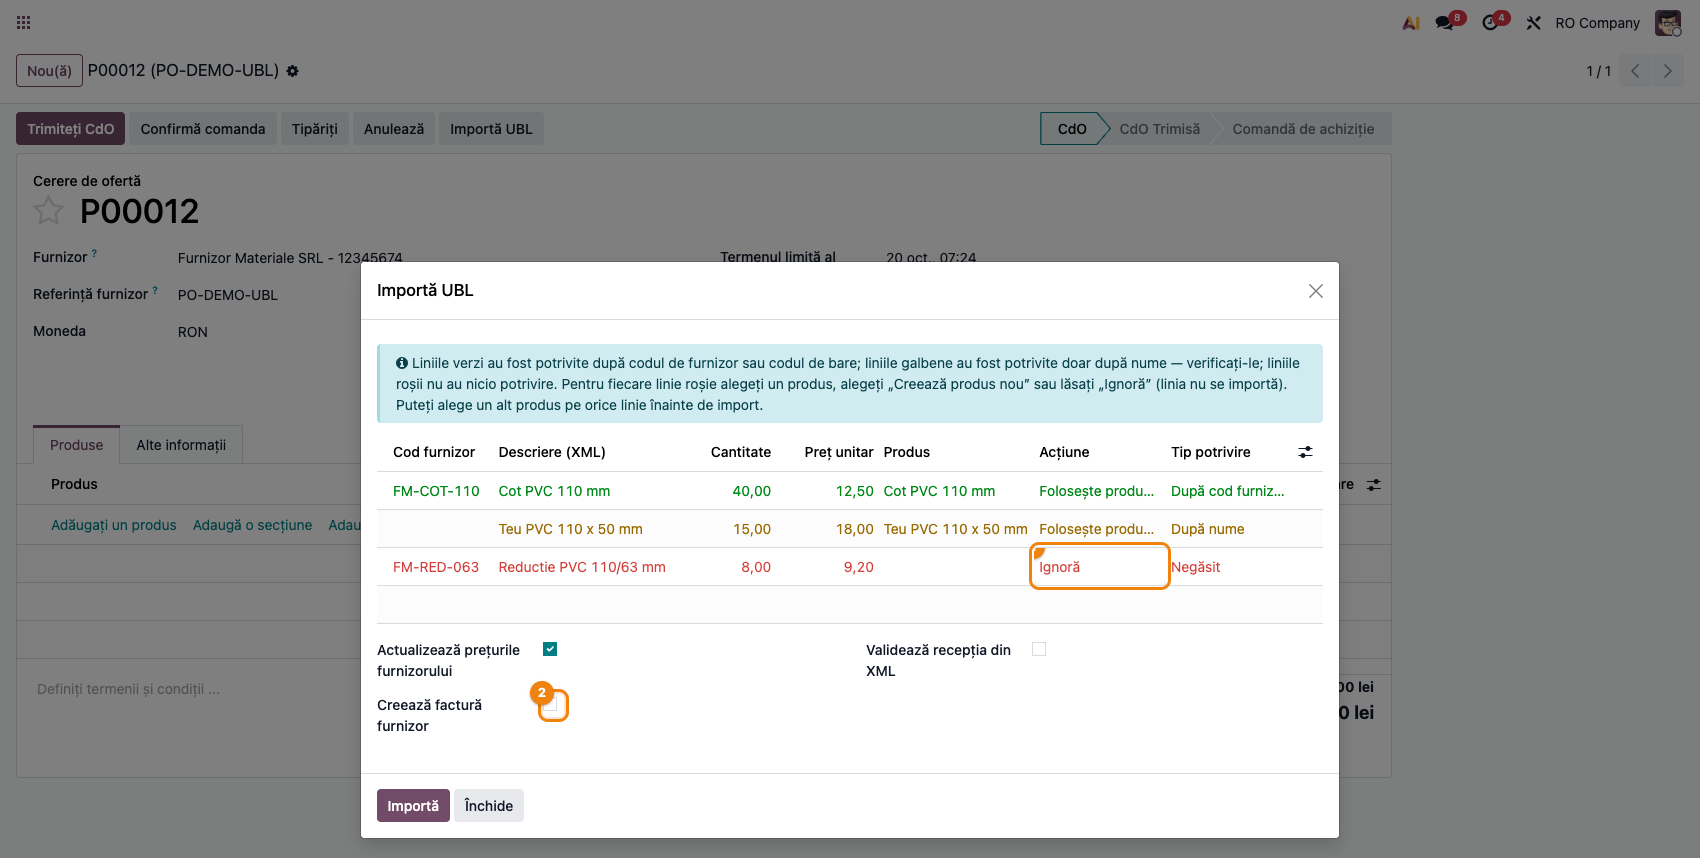
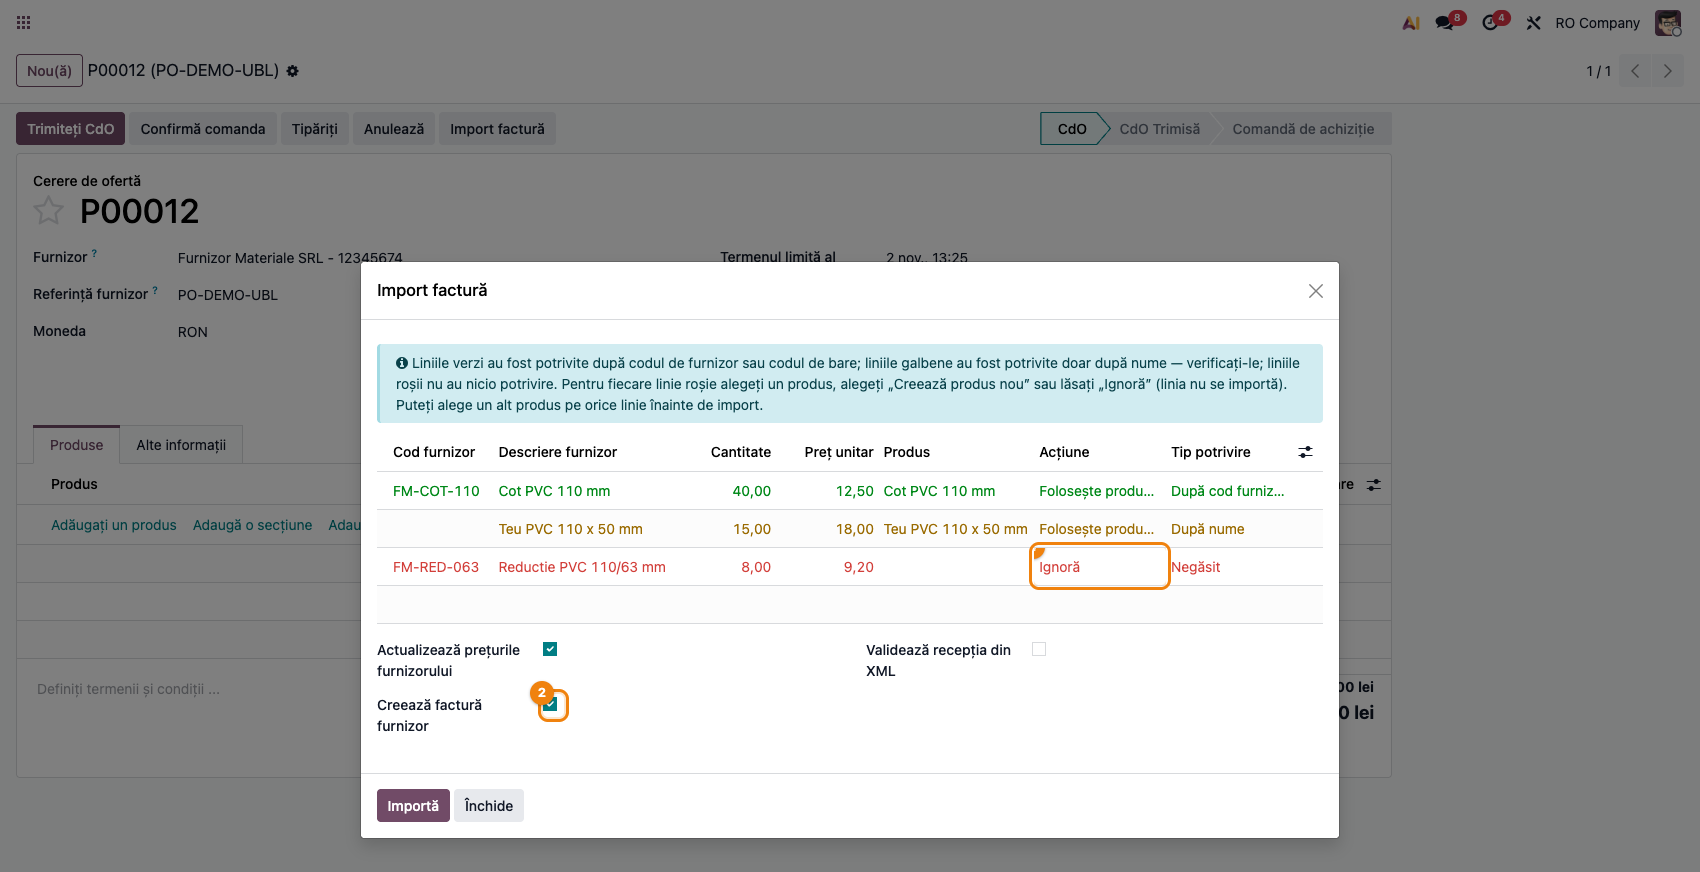
[19.0][DOC] deltatech_purchase_ubl: consultant sheet with screenshots on every step
Screenshots for steps 1-7 (new 01, 02, 05, 06, 09; 03/04 renamed from
06/09 to follow the flow), embedded in the sheet. Seed uses 2026 invoice
dates (new issue_date/due_date arguments of _xml_invoice, defaults
unchanged), storable products and a confirmed order for the main flow.
Sheet text now states exactly what a price update writes on an existing
vendor line and uses the Romanian wording of the translated messages.

Assisted-by: Claude Sonnet 5.5

diff --git a/deltatech_purchase_ubl/tests/test_screenshots.py b/deltatech_purchase_ubl/tests/test_screenshots.py
@@ -10,6 +10,7 @@
 #     fișa să poată arăta legenda completă într-o singură captură;
 #   - activitatea „Import SPV necesită verificare" + nota colorată din chatter (19.0.1.4.0),
 #     comportament care nu există în nicio bază locală, deci nu putea fi pozat manual;
+#   - pașii 1, 2, 5 și 6 (butonul, opțiunile, comanda importată, factura);
 #   - previzualizarea ca dialog, cu coloana „Acțiune" și opțiunile importului, și pasul de
 #     rezultat cu butonul „Deschide comanda de achiziție" (19.0.1.4.14).
 #
@@ -93,7 +94,7 @@ class TestPurchaseUblScreenshots(ScreenshotCase or object):
         )
 
         # VERDE — produs cu cod de furnizor: potrivire sigură.
-        cls.prod_green = env["product.product"].create({"name": "Cot PVC 110 mm", "type": "consu"})
+        cls.prod_green = env["product.product"].create({"name": "Cot PVC 110 mm", "type": "consu", "is_storable": True})
         env["product.supplierinfo"].create(
             {
                 "partner_id": cls.vendor.id,
@@ -108,10 +109,12 @@ class TestPurchaseUblScreenshots(ScreenshotCase or object):
         # fără cod de furnizor și fără cod de bare: matcherul cade pe potrivirea după nume.
         # Numele trebuie să fie UNIC în bază — `_match_product_detailed` acceptă potrivirea
         # după nume doar la un singur rezultat (`len(products) == 1`).
-        cls.prod_yellow = env["product.product"].create({"name": "Teu PVC 110 x 50 mm", "type": "consu"})
+        cls.prod_yellow = env["product.product"].create({"name": "Teu PVC 110 x 50 mm", "type": "consu", "is_storable": True})
 
         cls.xml_preview = _xml_invoice(
             invoice_id="FMS-2026-00418",
+            issue_date="2026-10-15",
+            due_date="2026-11-14",
             order_ref="PO-DEMO-UBL",
             supplier_vat="12345674",
             supplier_name="Furnizor Materiale SRL",
@@ -168,6 +171,8 @@ class TestPurchaseUblScreenshots(ScreenshotCase or object):
                     "data_file": b64encode(cls.xml_preview),
                     "filename": "FMS-2026-00418.xml",
                     "order_id": cls.po_preview.id,
+                    "update_prices": True,
+                    "create_bill": True,
                 }
             )
         )
@@ -195,6 +200,46 @@ class TestPurchaseUblScreenshots(ScreenshotCase or object):
         cls.wizard_done.action_preview()
         cls.wizard_done.action_confirm_import()
 
+        # --- Pașii 1–2: butonul de pe comandă și fereastra înainte de previzualizare -------
+        cls.po_start = env["purchase.order"].create(
+            {"partner_id": cls.vendor.id, "company_id": company.id, "partner_ref": "PO-DEMO-UBL-0"}
+        )
+        cls.wizard_start = (
+            env["purchase.ubl.import.wizard"]
+            .with_context(active_model="purchase.order", active_id=cls.po_start.id)
+            .create(
+                {
+                    "data_file": b64encode(cls.xml_preview),
+                    "filename": "FMS-2026-00418.xml",
+                    "order_id": cls.po_start.id,
+                    # opțiunile bifate implicit din acțiunea de pe comandă
+                    "update_prices": True,
+                    "create_bill": True,
+                }
+            )
+        )
+
+        # --- Pașii 5–6: comanda confirmată, importată cu factură ---------------------------
+        cls.po_bill = env["purchase.order"].create(
+            {"partner_id": cls.vendor.id, "company_id": company.id, "partner_ref": "PO-DEMO-UBL-3"}
+        )
+        # Facturarea pe cantitatea comandată, ca factura să se poată crea fără recepție.
+        (cls.prod_green | cls.prod_yellow).product_tmpl_id.write({"purchase_method": "purchase"})
+        cls.po_bill.button_confirm()
+        cls.wizard_bill = (
+            env["purchase.ubl.import.wizard"]
+            .with_context(active_model="purchase.order", active_id=cls.po_bill.id)
+            .create(
+                {
+                    "data_file": b64encode(cls.xml_preview),
+                    "filename": "FMS-2026-00418.xml",
+                    "order_id": cls.po_bill.id,
+                }
+            )
+        )
+        cls.wizard_bill.action_preview()
+        cls.wizard_bill.action_confirm_import()
+
         # --- Scenariul activității (19.0.1.4.0) -------------------------------------
         # Comandă creată „din mesajul SPV": XML cu o linie pe care matcherul nu o poate
         # plasa, importată headless cu `purchase_ubl_no_new_products` — exact fluxul
@@ -212,6 +257,8 @@ class TestPurchaseUblScreenshots(ScreenshotCase or object):
         )
         xml_activity = _xml_invoice(
             invoice_id="FMS-2026-00419",
+            issue_date="2026-10-15",
+            due_date="2026-11-14",
             order_ref="PO-DEMO-SPV",
             supplier_vat="12345674",
             supplier_name="Furnizor Materiale SRL",
@@ -261,12 +308,52 @@ class TestPurchaseUblScreenshots(ScreenshotCase or object):
         )
         self.assertEqual(self.wizard_done.state, "done")
 
+        self.assertTrue(self.po_bill.invoice_ids, "Seed-ul trebuie să producă factura furnizorului")
         self.capture_screenshots(
             [
+                # Pasul 1: butonul „Import factură" din bara comenzii (①).
+                {
+                    "url": f"id={self.po_start.id}&model=purchase.order&view_type=form",
+                    "name": "01_comanda_buton_import.png",
+                    "wait": ".o_form_view",
+                    "highlight": ["button:has-text('Import factură')"],
+                    "settle": 2000,
+                },
+                # Pasul 2: fereastra cu fișierul încărcat și opțiunile importului (①②③).
+                {
+                    "url": f"id={self.po_start.id}&model=purchase.order&view_type=form",
+                    "name": "02_optiuni_import.png",
+                    "wait": ".o_form_view",
+                    "eval": _open_wizard(self.wizard_start.id),
+                    "eval_wait": 2500,
+                    "highlight": [
+                        ".modal div[name='update_prices']",
+                        ".modal div[name='create_bill']",
+                        ".modal button[name='action_preview']",
+                    ],
+                    "settle": 2000,
+                },
+                # Pasul 5: comanda după import, cu liniile preluate din factură.
+                {
+                    "url": f"id={self.po_bill.id}&model=purchase.order&view_type=form",
+                    "name": "05_comanda_dupa_import.png",
+                    "wait": ".o_form_view",
+                    "settle": 2500,
+                    "full": True,
+                },
+                # Pasul 6: factura furnizorului creată din XML, în ciornă.
+                {
+                    "url": f"id={self.po_bill.invoice_ids[:1].id}&model=account.move&view_type=form",
+                    "name": "06_factura_furnizor.png",
+                    "wait": ".o_form_view",
+                    "highlight": ["div[name='ref']"],
+                    "settle": 2500,
+                    "full": True,
+                },
                 # Previzualizarea cu toate trei culorile; bulina ① indică linia galbenă.
                 {
                     "url": f"id={self.wizard.id}&model=purchase.ubl.import.wizard&view_type=form",
-                    "name": "06_preview_linie_galbena.png",
+                    "name": "03_preview_linie_galbena.png",
                     "wait": ".o_list_view",
                     "highlight": ["tr.o_data_row:has-text('Teu PVC 110 x 50 mm')"],
                     "settle": 2500,
@@ -288,10 +375,10 @@ class TestPurchaseUblScreenshots(ScreenshotCase or object):
                 },
                 # Rezultatul importului: jurnalul și butonul care deschide comanda (①).
                 {
-                    "url": f"id={self.po_done.id}&model=purchase.order&view_type=form",
-                    "name": "09_rezultat_deschide_comanda.png",
+                    "url": f"id={self.po_bill.id}&model=purchase.order&view_type=form",
+                    "name": "04_rezultat_deschide_comanda.png",
                     "wait": ".o_form_view",
-                    "eval": _open_wizard(self.wizard_done.id),
+                    "eval": _open_wizard(self.wizard_bill.id),
                     "eval_wait": 2500,
                     "highlight": [".modal button[name='action_open_order']"],
                     "settle": 2000,
@@ -306,6 +393,24 @@ class TestPurchaseUblScreenshots(ScreenshotCase or object):
                     "hide_chatter": False,
                     "highlight": [".o-mail-Chatter"],
                     "settle": 4000,
+                    "full": True,
+                },
+            ],
+            viewport=(1700, 1100),
+        )
+
+        # Pasul 6, după „Confirmă": nota contabilă a facturii, pe tab-ul „Elemente jurnal".
+        bill = self.po_bill.invoice_ids[:1]
+        bill.action_post()
+        self.env.flush_all()
+        self.capture_screenshots(
+            [
+                {
+                    "url": f"id={bill.id}&model=account.move&view_type=form",
+                    "name": "09_factura_nota_contabila.png",
+                    "wait": ".o_form_view",
+                    "click_tab": "Elemente jurnal",
+                    "settle": 2500,
                     "full": True,
                 },
             ],

diff --git a/deltatech_purchase_ubl/tests/test_process_attachments.py b/deltatech_purchase_ubl/tests/test_process_attachments.py
@@ -20,6 +20,8 @@ UBL_NS = {
 def _xml_invoice(
     *,
     invoice_id="INV-ATT-001",
+    issue_date="2025-01-01",
+    due_date="2025-01-30",
     currency="RON",
     order_ref="PO001",
     supplier_vat="RO12345678",
@@ -69,8 +71,8 @@ def _xml_invoice(
     xml = f"""
         <inv:Invoice xmlns:inv=\"{UBL_NS["inv"]}\" xmlns:cac=\"{UBL_NS["cac"]}\" xmlns:cbc=\"{UBL_NS["cbc"]}\">
             <cbc:ID>{invoice_id}</cbc:ID>
-            <cbc:IssueDate>2025-01-01</cbc:IssueDate>
-            <cbc:DueDate>2025-01-30</cbc:DueDate>
+            <cbc:IssueDate>{issue_date}</cbc:IssueDate>
+            <cbc:DueDate>{due_date}</cbc:DueDate>
             <cbc:DocumentCurrencyCode>{currency}</cbc:DocumentCurrencyCode>
             <cac:OrderReference><cbc:ID>{order_ref}</cbc:ID></cac:OrderReference>
             <cac:AccountingSupplierParty>

diff --git a/deltatech_purchase_ubl/readme/FISA_CONSULTANT.md b/deltatech_purchase_ubl/readme/FISA_CONSULTANT.md
@@ -75,16 +75,22 @@ Accesați **Achiziții → Comenzi → Comenzi de achiziție** și deschideți c
 de sus apăsați **Import factură**. Se deschide fereastra **Import factură**. Dacă pe comandă este deja
 atașat un fișier XML de factură UBL, acesta este preluat automat în câmpul **Fișier XML**.
 
+![Butonul Import factură pe comanda de achiziție](screenshots/01_comanda_buton_import.png)
+
 ### Pasul 2 — Alegerea fișierului și a opțiunilor
 
 În grupul **Fișier**, încărcați factura în câmpul **Fișier XML** (dacă nu a fost preluată automat);
 câmpul **Comandă de achiziție** arată comanda pe care se face importul. În grupul **Opțiuni**:
 - **Actualizează prețurile furnizorului** (bifat implicit) — scrie prețul unitar din XML în lista de
   prețuri a furnizorului. Pe o linie de furnizor existentă se modifică doar prețul (convertit în
-  unitatea de măsură a liniei), moneda și codul produsului furnizorului, acesta din urmă numai dacă
+  unitatea de măsură a liniei, când unitatea din XML e recunoscută și compatibilă; altfel prețul se
+  scrie ca în XML), moneda din XML și codul produsului furnizorului, acesta din urmă numai dacă
   XML-ul îl conține; **Termenul de livrare**, unitatea de măsură, cantitatea minimă și perioada de
   valabilitate rămân cele ale liniei existente. Dacă furnizorul nu are încă o linie pentru produs,
-  se creează una nouă, cu unitatea din XML și termenul implicit;
+  se creează una nouă, cu unitatea din XML (dacă e compatibilă cu cea a produsului) și termenul implicit.
+  Se actualizează o singură linie de furnizor (prima, după secvență și cantitatea minimă): treptele
+  de preț pe cantitate rămân cu prețul vechi, iar discountul liniei de furnizor nu se modifică, deci
+  verificați prețul net dacă linia avea discount;
 - **Creează factură furnizor** (bifat implicit) — creează factura furnizorului din comandă;
 - **Validează recepția din XML** (nebifat implicit) — setează cantitățile din XML pe recepția
   comenzii și o validează.
@@ -98,11 +104,17 @@ Deasupra pot apărea avertismente galbene:
 
 Apăsați **Previzualizare**.
 
+![Fereastra Import factură cu fișierul și opțiunile importului](screenshots/02_optiuni_import.png)
+
 ### Pasul 3 — Verificarea asocierii produselor în previzualizare
 
 Fereastra afișează un tabel cu câte un rând pentru fiecare linie a facturii: **Cod furnizor**,
 **Descriere furnizor**, **Cantitate**, **Preț unitar**, **Produs** (produsul găsit), **Acțiune** și
 **Tip potrivire**.
+
+![Previzualizarea cu rânduri verzi, galbene și roșii](screenshots/03_preview_linie_galbena.png)
+
+![Alegerea acțiunii pe un rând roșu](screenshots/08_preview_actiune_linie.png)
 
 1. **Găsiți pe ecran** culoarea fiecărui rând și coloana **Tip potrivire**:
    - **verde** — „După cod furnizor” sau „După cod de bare”: asociere sigură;
@@ -127,7 +139,7 @@ portocaliu/roșu = avertismente):
 - „Factură furnizor creată: …” sau motivul pentru care nu a fost creată (comandă neconfirmată, nimic
   de facturat, factură existentă deja cu aceeași referință);
 - rezultatul verificării totalului comenzii față de XML (fără TVA și cu TVA);
-- un avertisment „VAT rate differs on … line(s) …” când cota de TVA a liniilor de comandă diferă de
+- un avertisment „Cota TVA diferă pe … linie(i) …” când cota de TVA a liniilor de comandă diferă de
   cea din factură — de obicei lipsește poziția fiscală a furnizorului (achiziție intracomunitară cu
   taxare inversă sau import);
 - dacă comanda fusese creată goală din butonul de încărcare al listei de achiziții, cu compania sau
@@ -135,12 +147,16 @@ portocaliu/roșu = avertismente):
 
 Citiți jurnalul înainte de a închide: orice rând roșu cere o verificare manuală pe comandă.
 
+![Rezultatul importului, cu butonul de deschidere a comenzii](screenshots/04_rezultat_deschide_comanda.png)
+
 ### Pasul 5 — Verificarea comenzii și a recepției
 
 Apăsați **Deschide comanda de achiziție**. Pe comandă verificați liniile (cantități, prețuri unitare,
 discounturi preluate din XML) și liniile noi adăugate. Dacă ați bifat **Validează recepția din XML**,
 deschideți recepția din butonul **Recepție**: cantitățile realizate sunt cele din factură, iar
 recepția este validată.
+
+![Comanda după import, cu liniile din factură](screenshots/05_comanda_dupa_import.png)
 
 ### Pasul 6 — Verificarea facturii furnizorului
 
@@ -153,6 +169,12 @@ comenzii din XML). Cotele de TVA ale liniilor sunt aliniate cu procentele din XM
    factura primită (atenție la liniile cu 0% — vezi secțiunea 9).
 3. **Treceți mai departe** — confirmați factura cu butonul standard **Confirmă**.
 
+![Factura furnizorului în ciornă, completată din XML](screenshots/06_factura_furnizor.png)
+
+După **Confirmă**, nota contabilă a facturii se vede în tabul **Elemente jurnal**:
+
+![Nota contabilă a facturii confirmate](screenshots/09_factura_nota_contabila.png)
+
 ### Pasul 7 — Importul automat la atașarea XML-ului
 
 Când un fișier XML de factură UBL este atașat automat pe comandă (de exemplu de fluxul de preluare a
@@ -161,6 +183,8 @@ totalul nu se potrivește sau rămân linii neasociate, factura **nu** se creeaz
 postează în istoricul comenzii, iar responsabilul comenzii primește activitatea
 **„Import SPV necesită verificare”**. Rezolvați liniile pe comandă, apoi relansați importul manual
 (pașii 1–6).
+
+![Nota colorată și activitatea de verificare pe comandă](screenshots/07_activitate_verificare.png)
 
 Dacă documentul XML este o **notă de credit**, nu se aplică pe comandă: jurnalul afișează
 „Atenție: documentul … este o notă de credit; notele de credit nu se importă. Înregistrați manual
@@ -172,7 +196,9 @@ Modulul nu generează note contabile proprii. Notele rezultă din documentele st
 - **Recepția validată** (în configurarea RO cu evaluare automată a stocului): Dr 371 „Mărfuri” (sau
   contul de stoc al categoriei) = Cr 408 „Furnizori — facturi nesosite”, la valoarea comenzii.
 - **Factura furnizorului confirmată**: Dr 408 (pentru cantitățile recepționate) / Dr cont de
-  cheltuială (pentru servicii) + Dr 4426 „TVA deductibilă” = Cr 401 „Furnizori”.
+  cheltuială (pentru servicii) + Dr 4426 „TVA deductibilă” = Cr 401 „Furnizori”. Fără evaluare
+  automată a stocului (inventar intermitent), liniile merg direct pe contul de cheltuială al
+  categoriei, de exemplu 607 „Cheltuieli privind mărfurile”, ca în captura de mai jos.
 
 Conturile exacte depind de configurarea categoriilor de produse, a taxelor și a jurnalului de
 achiziții.
@@ -202,7 +228,7 @@ Ce rămâne manual: verificarea rândurilor galbene/roșii în previzualizare, c
       pe comandă apar ca linii noi.
 - [ ] Prețul de furnizor (cu **Cod produs furnizor**) este actualizat pentru produsele importate, iar
       **Termenul de livrare** al liniilor de furnizor existente a rămas neschimbat (verificați cu un
-      termen diferit de 1 zi pe linie înainte de import: pe datele demo, cu 1 zi, testul trece și fără fix).
+      termen diferit de 1 zi pe linie înainte de import, de exemplu 9 zile; după import trebuie să fie tot 9 zile).
 - [ ] Cu **Validează recepția din XML** bifat, recepția comenzii este validată cu cantitățile din XML.
 - [ ] Factura furnizorului are referința, data și scadența din XML; un al doilea import al aceleiași
       facturi nu creează o factură dublă.
@@ -218,30 +244,33 @@ Ce rămâne manual: verificarea rândurilor galbene/roșii în previzualizare, c
 |-----------------|-----------------|-----------|
 | „Vă rugăm să selectați un fișier XML.” | Câmpul **Fișier XML** este gol | Încărcați fișierul facturii |
 | „XML nevalid: …” | Fișierul nu este un XML corect (de ex. PDF sau arhivă ZIP din SPV) | Extrageți fișierul XML al facturii și reîncercați |
-| „No vendor found for supplier VAT … / name …” | Importul nu e pornit de pe o comandă, iar furnizorul nu există cu acel CUI/nume | Porniți importul de pe comandă sau creați furnizorul cu CUI-ul din XML |
+| „Nu s-a găsit niciun furnizor pentru codul de TVA … / numele …” | Importul nu e pornit de pe o comandă, iar furnizorul nu există cu acel CUI/nume | Porniți importul de pe comandă sau creați furnizorul cu CUI-ul din XML |
 | Multe rânduri galbene/roșii | Prețurile furnizorului nu au **Cod produs furnizor**, produsele nu au cod de bare | Completați codurile furnizorului; la importurile următoare asocierea va fi verde |
 | „Crearea facturii de furnizor a fost sărită: comanda … nu este încă confirmată…” | Comanda este în stadiul de cerere de ofertă | Confirmați comanda și relansați importul |
 | „Factura de furnizor nu a fost creată: pe comanda … nu a mai rămas nimic de facturat.” | Comanda e deja facturată sau se facturează pe cantități recepționate și nimic nu e recepționat | Verificați facturile existente; validați recepția (bifați **Validează recepția din XML**) |
 | „Factura furnizor există deja pentru această referință de factură (…)” | Factura a fost deja importată | Nu e nevoie de acțiune; folosiți **Vezi factura furnizor** |
 | „Atenție: recepția … nu a putut fi validată; verificați-o manual.” | Cantitățile nu pot fi setate (de ex. produs cu lot/serie) | Completați și validați recepția manual |
-| „VAT rate differs on … line(s) …” | Furnizorul nu are poziția fiscală potrivită (intracomunitar / import), deci comanda a luat TVA-ul intern | Setați poziția fiscală pe furnizor și pe comandă, apoi creați factura |
+| „Cota TVA diferă pe … linie(i) …” | Furnizorul nu are poziția fiscală potrivită (intracomunitar / import), deci comanda a luat TVA-ul intern | Setați poziția fiscală pe furnizor și pe comandă, apoi creați factura |
 | Total fără TVA corect, total cu TVA diferit | Cotele de TVA ale comenzii diferă de cele din factură | Verificați poziția fiscală și taxele liniilor |
 | Factură XML în altă monedă decât comanda | Prețurile din XML se scriu în moneda comenzii, fără conversie | Importați doar pe o comandă în aceeași monedă ca factura |
 
 ## 10. Capturi de ecran
 
-Fișa este **doar text** — pașii din secțiunea 6 nu includ capturi. În `readme/screenshots/` există
-patru capturi generate automat din `tests/test_screenshots.py` (mixinul `ScreenshotCase` din
-`l10n_ro_doc_screenshots`, import defensiv), care corespund pașilor 3, 4 și 7, dar nu sunt
-încorporate în fișă:
+Capturile sunt în `readme/screenshots/`, generate automat din `tests/test_screenshots.py` (mixinul
+`ScreenshotCase` din `l10n_ro_doc_screenshots`, import defensiv), pe „RO Company” în RON, în română,
+și sunt încorporate în pașii secțiunii 6:
 
-1. `06_preview_linie_galbena.png` — previzualizarea cu o linie asociată doar după nume (galbenă).
-2. `07_activitate_verificare.png` — activitatea „Import SPV necesită verificare” pe comandă.
-3. `08_preview_actiune_linie.png` — alegerea acțiunii pe o linie din previzualizare.
-4. `09_rezultat_deschide_comanda.png` — rezultatul importului, cu butonul de deschidere a comenzii.
+1. `01_comanda_buton_import.png` — butonul **Import factură** pe comanda de achiziție (pasul 1).
+2. `02_optiuni_import.png` — fereastra cu fișierul și opțiunile importului (pasul 2).
+3. `03_preview_linie_galbena.png` — previzualizarea cu rânduri verzi, galbene și roșii (pasul 3).
+4. `08_preview_actiune_linie.png` — alegerea acțiunii pe un rând roșu (pasul 3).
+5. `04_rezultat_deschide_comanda.png` — rezultatul importului, cu butonul de deschidere a comenzii (pasul 4).
+6. `05_comanda_dupa_import.png` — comanda cu liniile preluate din factură (pasul 5).
+7. `06_factura_furnizor.png` — factura furnizorului în ciornă, completată din XML (pasul 6).
+8. `07_activitate_verificare.png` — activitatea „Import SPV necesită verificare” și nota din istoric (pasul 7).
+9. `09_factura_nota_contabila.png` — nota contabilă a facturii confirmate, tab „Elemente jurnal” (pasul 6).
 
-Pentru o fișă completă cu capturi pe toți pașii se rulează skill-ul `fisa-screenshots`; regenerarea
-capturilor existente:
+Regenerarea capturilor:
 
 ```bash
 ./odoo/odoo-bin -c odoo.conf -d <db> -i deltatech_purchase_ubl,l10n_ro_doc_screenshots \
@@ -256,4 +285,3 @@ roșu se decide (produs, produs nou sau ignorare). Recomandați completarea **Co
 pe prețurile furnizorului, care face asocierea sigură. Pentru importul automat din SPV, explicați
 activitatea „Import SPV necesită verificare” și faptul că factura nu se creează până la rezolvarea
 liniilor. Explicați și avertismentul de cotă TVA, care trimite la poziția fiscală a furnizorului.
-Avertismentul de cotă TVA apare momentan în engleză.
